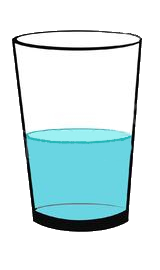
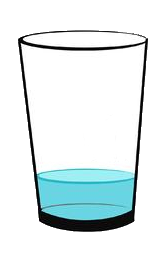
change imageset and on activate list refresh

Changed region(s): [[0.0625, 0.0889, 0.9375, 0.8593]]

diff --git a/Hydrate/Views/Main/MainWindow.xaml b/Hydrate/Views/Main/MainWindow.xaml
@@ -30,10 +30,10 @@
 
         <StackPanel Orientation="Horizontal" VerticalAlignment="Top" Height="90" HorizontalAlignment="Left" Width="400" Margin="100,470,0,0">
             <Button Background="Transparent" FontSize="20" Width="90" Height="90" Margin="5,0" Command="{Binding AddItem}" CommandParameter="330">
-                <Image Source="/Resources/QuantityIcons/250ml.png" />
+                <Image Source="/Resources/QuantityIcons/330ml.png" />
             </Button>
             <Button Background="Transparent" FontSize="20" Width="90" Height="90" Margin="5,0" Command="{Binding AddItem}" CommandParameter="250">
-                <Image Source="/Resources/QuantityIcons/200ml.png" />
+                <Image Source="/Resources/QuantityIcons/250ml.png" />
             </Button>
             <Button Background="Transparent" FontSize="20" Width="90" Height="90" Margin="5,0" Command="{Binding AddItem}" CommandParameter="150">
                 <Image Source="/Resources/QuantityIcons/150ml.png" />

diff --git a/Hydrate/Models/DrinkingListItem.cs b/Hydrate/Models/DrinkingListItem.cs
@@ -10,7 +10,7 @@ namespace Hydrate.Models
         public string QuantityVisibility { get; set; }
         public string FoodVisibility { get; set; }
         public DateTime DrankTime { get; set; }
-        private readonly static string[] ImgSourceArray = new string[] { "below_150ml.png", "150ml.png", "200ml.png", "250ml.png", "food.png" };
+        private readonly static string[] ImgSourceArray = new string[] { "150ml.png", "200ml.png", "250ml.png", "330ml.png", "food.png" };
 
         public string ImageSource { get; set; }
         public int QuantityDrank { get; set; }
@@ -45,15 +45,15 @@ namespace Hydrate.Models
                 {
                     ImageSource += ImgSourceArray[3];
                 }
-                else if (QuantityDrank >= 200 && QuantityDrank < 300)
+                else if (QuantityDrank >= 250 && QuantityDrank < 300)
                 {
                     ImageSource += ImgSourceArray[2];
                 }
-                else if (QuantityDrank >= 100 && QuantityDrank < 200)
+                else if (QuantityDrank >= 200 && QuantityDrank < 250)
                 {
                     ImageSource += ImgSourceArray[1];
                 }
-                else if (QuantityDrank < 100)
+                else if (QuantityDrank < 200)
                 {
                     ImageSource += ImgSourceArray[0];
                 }

diff --git a/Hydrate/Views/Main/MainWindow.xaml.cs b/Hydrate/Views/Main/MainWindow.xaml.cs
@@ -1,4 +1,5 @@
 using Hydrate.ViewModels;
+using System;
 using System.Windows;
 using System.Windows.Input;
 
@@ -9,10 +10,12 @@ namespace Hydrate.Views.Main
     /// </summary>
     public partial class MainWindow : Window
     {
+        private readonly MainWindowViewModel _bindingContext;
+
         public MainWindow()
         {
             InitializeComponent();
-            DataContext = new MainWindowViewModel();
+            DataContext = _bindingContext = new MainWindowViewModel();
         }
 
         private void Label_MouseDown(object sender, MouseButtonEventArgs e)
@@ -32,6 +35,12 @@ namespace Hydrate.Views.Main
         {
             WindowState = WindowState.Minimized;
             Hide();
+        }
+
+        protected override void OnActivated(EventArgs e)
+        {
+            _bindingContext.PopulateList.ListRefresh();
+            base.OnActivated(e);
         }
     }
 }
